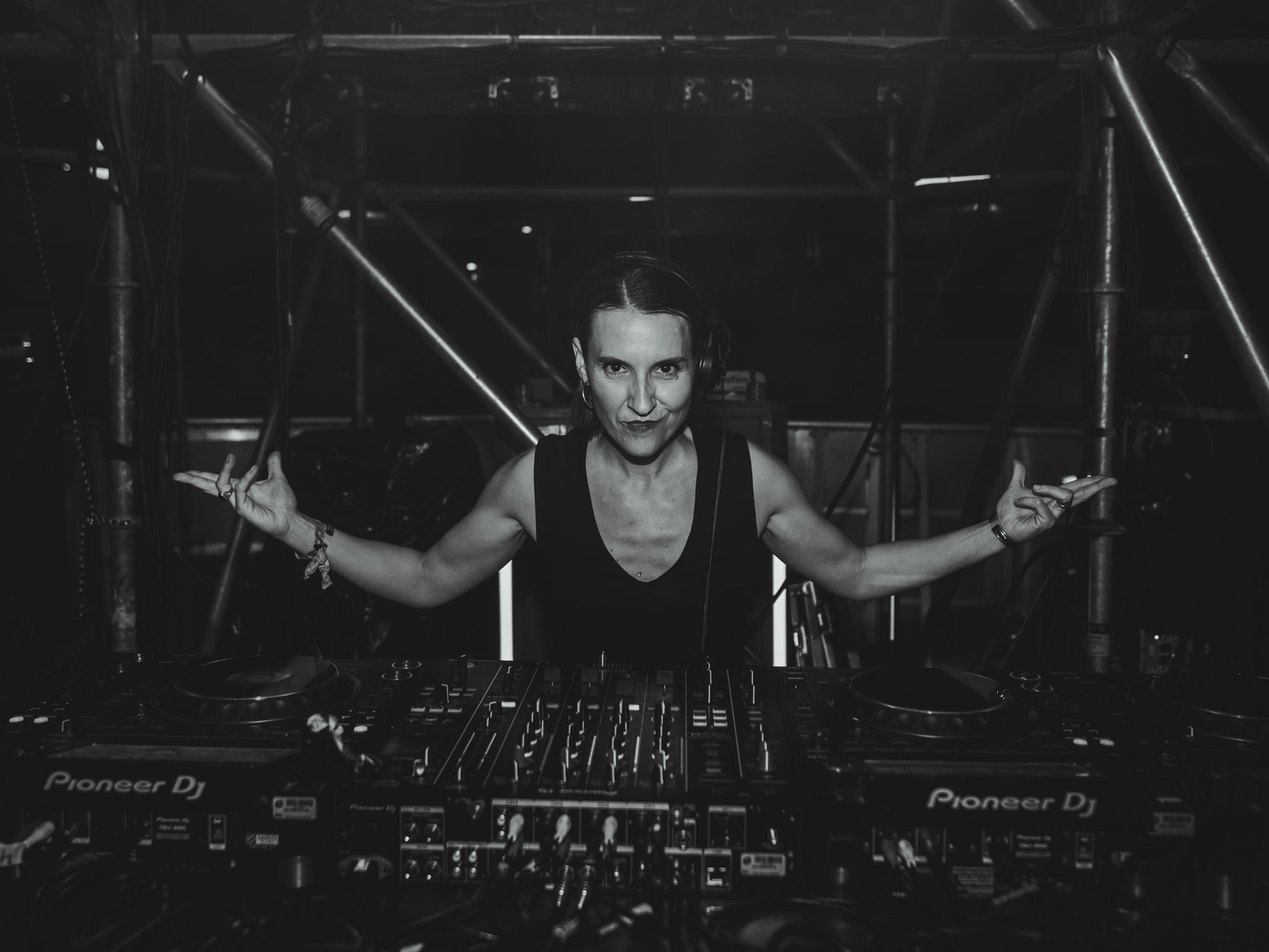
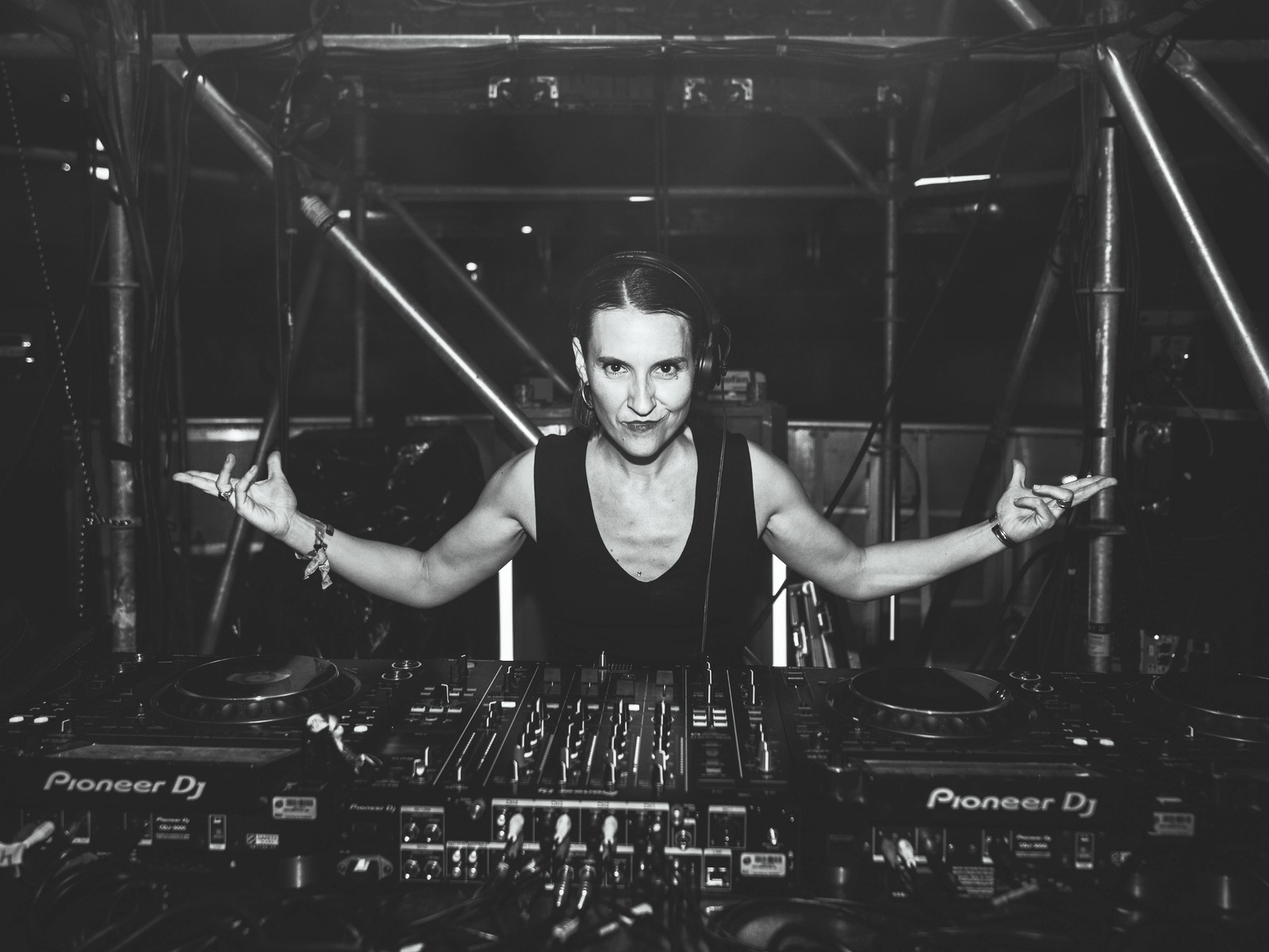
Mentora: foto más luminosa y borde acid

diff --git a/index.html b/index.html
@@ -22,7 +22,7 @@
 .press-kit-link:hover{color:#c8ff00;border-color:#c8ff00}
 .press-kit-link__mark{color:#c8ff00}
 @media (prefers-reduced-motion:reduce){.set-player__trigger,.press-kit-link{transition:none}}
-</style><meta name="theme-color" content="#080808"/><meta name="color-scheme" content="dark"/><title>BASSROOM DJs School | Escuela online de DJs</title><meta name="description" content="Escuela online de DJs de Mobox (Mónica Solís Ruiz), en Granada. Aprende a mezclar desde cero hasta nivel avanzado: clases en directo, revisión de tus mezclas y videoteca. Grupal online o VIP 1 a 1, presencial u online. Reserva una llamada."/><meta name="application-name" content="BASSROOM DJs School"/><meta name="author" content="Mobox (Mónica Solís Ruiz)"/><meta name="keywords" content="escuela de DJ,clases de DJ online,BASSROOM,Mobox,Mónica Solís Ruiz,Rekordbox,mezcla,Granada"/><meta name="creator" content="Mobox (Mónica Solís Ruiz)"/><meta name="robots" content="index, follow"/><link rel="canonical" href="https://bassroomdjschool.com"/><meta property="og:title" content="BASSROOM DJs School | Escuela online de DJs"/><meta property="og:description" content="Escuela online de DJs de Mobox (Mónica Solís Ruiz), en Granada. Aprende a mezclar desde cero hasta nivel avanzado: clases en directo, revisión de tus mezclas y videoteca. Grupal online o VIP 1 a 1, presencial u online. Reserva una llamada."/><meta property="og:url" content="https://bassroomdjschool.com"/><meta property="og:site_name" content="BASSROOM DJs School"/><meta property="og:locale" content="es_ES"/><meta property="og:image" content="https://bassroomdjschool.com/og.png"/><meta property="og:image:type" content="image/png"/><meta property="og:image:width" content="1200"/><meta property="og:image:height" content="630"/><meta property="og:image:alt" content="BASSROOM DJs School, escuela online de DJs"/><meta property="og:type" content="website"/><meta name="twitter:card" content="summary_large_image"/><meta name="twitter:title" content="BASSROOM DJs School | Escuela online de DJs"/><meta name="twitter:description" content="Escuela online de DJs de Mobox (Mónica Solís Ruiz), en Granada. Aprende a mezclar desde cero hasta nivel avanzado: clases en directo, revisión de tus mezclas y videoteca. Grupal online o VIP 1 a 1, presencial u online. Reserva una llamada."/><meta name="twitter:image" content="https://bassroomdjschool.com/og.png"/><meta name="twitter:image:alt" content="BASSROOM DJs School, escuela online de DJs"/><meta name="twitter:image:type" content="image/png"/><meta name="twitter:image:width" content="1200"/><meta name="twitter:image:height" content="630"/><link rel="icon" href="/icon.png" type="image/png" sizes="32x32"/></head><body class="flex min-h-full flex-col overflow-x-clip bg-void font-sans text-paper antialiased"><a class="skip-link" href="#contenido">Saltar al contenido</a><script type="application/ld+json">{"@context":"https://schema.org","@type":"EducationalOrganization","name":"BASSROOM DJs School","url":"https://bassroomdjschool.com","email":"moboxdj@gmail.com","description":"Escuela online de DJs de Mobox (Mónica Solís Ruiz), en Granada. Aprende a mezclar desde cero hasta nivel avanzado: clases en directo, revisión de tus mezclas y videoteca. Grupal online o VIP 1 a 1, presencial u online. Reserva una llamada.","inLanguage":"es","address":{"@type":"PostalAddress","addressLocality":"Granada","addressCountry":"ES"},"founder":{"@type":"Person","name":"Mónica Solís Ruiz","alternateName":"Mobox","jobTitle":"DJ y docente","homeLocation":"Granada, España","sameAs":["https://www.instagram.com/moboxdj/","https://soundcloud.com/moboxdj","https://www.mixcloud.com/Moboxdj/","https://www.youtube.com/@moboxdj","https://linktr.ee/mobox"]},"hasOfferCatalog":{"@type":"OfferCatalog","name":"Formatos de BASSROOM","itemListElement":[{"@type":"Offer","name":"Membresía grupal","price":"65","priceCurrency":"EUR","description":"Clases en grupo reducido, online, con membresía mensual. 65 € al mes.","url":"https://bassroomdjschool.com/reservar"},{"@type":"Offer","name":"VIP quincenal","price":"130","priceCurrency":"EUR","description":"Una sesión 1 a 1 cada dos semanas. 130 € al mes.","url":"https://bassroomdjschool.com/reservar"},{"@type":"Offer","name":"VIP mensual","price":"230","priceCurrency":"EUR","description":"Una sesión 1 a 1 cada semana. 230 € al mes.","url":"https://bassroomdjschool.com/reservar"}]}}</script><header class="sticky top-0 z-40 border-b border-line bg-void/95 backdrop-blur-md"><div class="h-0.5 bg-acid" aria-hidden="true"></div><div class="mx-auto flex h-16 max-w-6xl items-center gap-3 px-4 sm:px-6"><a class="mr-auto rounded-none focus-visible:outline-2 focus-visible:outline-offset-4 focus-visible:outline-acid" href="/"><span class="inline-flex items-center gap-2.5"><span aria-hidden="true" class="grid size-9 shrink-0 place-items-center bg-acid font-display text-[1.35rem] leading-none tracking-wide text-void">BR</span><span class="flex min-w-0 flex-col"><span class="font-display text-[1.65rem] leading-none tracking-[0.12em] text-paper">BASSROOM</span><span class="mt-1 font-mono text-[9px] uppercase tracking-[0.28em] text-acid">DJs School</span></span></span><span class="sr-only">, inicio</span></a><nav aria-label="Secciones" class="hidden items-center gap-5 lg:flex"><a class="font-mono text-[11px] uppercase tracking-[0.14em] text-mix hover:text-paper" href="/#escuela">Escuela</a><a class="font-mono text-[11px] uppercase tracking-[0.14em] text-mix hover:text-paper" href="/#temario">Temario</a><a class="font-mono text-[11px] uppercase tracking-[0.14em] text-mix hover:text-paper" href="/#mentora">Mentora</a><a class="font-mono text-[11px] uppercase tracking-[0.14em] text-mix hover:text-paper" href="/#formatos">Formatos</a><a class="font-mono text-[11px] uppercase tracking-[0.14em] text-mix hover:text-paper" href="/#faq">FAQ</a></nav><a data-slot="button" class="inline-flex items-center justify-center gap-2 whitespace-nowrap font-mono text-[11px] font-bold uppercase tracking-[0.16em] transition-colors focus-visible:outline-2 focus-visible:outline-offset-2 disabled:pointer-events-none disabled:opacity-50 bg-acid text-void hover:bg-paper focus-visible:outline-paper h-10 px-4 shrink-0" href="https://calendar.app.google/jAWiXbuMA2pQXPar5"><span class="sm:hidden">Reservar</span><span class="hidden sm:inline">Reserva una llamada</span></a></div></header><main id="contenido" class="flex-1"><script type="application/ld+json">{"@context":"https://schema.org","@type":"FAQPage","mainEntity":[{"@type":"Question","name":"¿Qué es BASSROOM?","acceptedAnswer":{"@type":"Answer","text":"Es la escuela online para futuros DJs. Nace después de años formando alumnos y alumnas, para llegar a más personas apasionadas por el mundo DJ y la música. El objetivo es acompañarte en el proceso de convertirte en DJ."}},{"@type":"Question","name":"¿Para quién es?","acceptedAnswer":{"@type":"Answer","text":"Desde cero hasta nivel avanzado. Empiezas sin experiencia, con la cabina y el equipo, avanzas por niveles hasta tu primera sesión y terminas con un nivel avanzado y un proyecto final: grabar una sesión de 60 minutos."}},{"@type":"Question","name":"¿Cómo son las clases del grupo?","acceptedAnswer":{"@type":"Answer","text":"La membresía grupal es online, en grupo reducido: un día a la semana, hora y media. En directo puedes preguntar, pausar y seguir la guía paso a paso. En cada bloque presentas ejercicios, mezclas y selecciones, y tu mentora los revisa en directo (ecualización, mezcla y estructura). Hay un chat grupal."}},{"@type":"Question","name":"¿Qué pasa si no puedo asistir en directo?","acceptedAnswer":{"@type":"Answer","text":"La clase queda grabada y subida a la web, y puedes verla cuando quieras. El acceso a las grabaciones es permanente: la videoteca no tiene límite."}},{"@type":"Question","name":"¿Qué se trabaja en el temario?","acceptedAnswer":{"@type":"Answer","text":"Ocho temas: la cabina y el equipo, pulso y BPM, descarga de música, Rekordbox, la primera mezcla, cómo preparar una sesión y leer la pista, la grabación de tu primera sesión y un nivel avanzado con stems, samplers, trucos, retos en directo y capas de 3 y 4 pistas. El proyecto final es grabar una sesión de 60 minutos."}},{"@type":"Question","name":"¿Qué formatos hay y cuánto cuestan?","acceptedAnswer":{"@type":"Answer","text":"Membresía grupal: 65 € al mes, con pago por Stripe. VIP quincenal: 130 € al mes, una sesión 1 a 1 cada dos semanas. VIP mensual: 230 € al mes, una sesión 1 a 1 cada semana. El 1 a 1 puede ser presencial u online, con plazas muy limitadas."}},{"@type":"Question","name":"¿Qué incluye el VIP además de la sesión 1 a 1?","acceptedAnswer":{"@type":"Answer","text":"WhatsApp para dudas puntuales, con respuesta en 24-48 horas; una playlist curada según tu estilo; grabación de tus sesiones con tu mentora; ayuda con el press kit; recomendación directa para actuaciones; y acceso gratuito e ilimitado a las clases grupales. Es el mismo paquete en los dos planes VIP."}},{"@type":"Question","name":"¿Quién da las clases?","acceptedAnswer":{"@type":"Answer","text":"Mobox (Mónica), DJ profesional, percusionista en vivo y docente, con más de una década de experiencia continua en la música electrónica y más de 14 años en salas y festivales."}},{"@type":"Question","name":"¿Con qué software se trabaja?","acceptedAnswer":{"@type":"Answer","text":"Con Rekordbox. El tema 04 cubre la interfaz, la configuración y la importación y exportación musical."}}]}</script><section class="border-b border-line"><div class="mx-auto grid max-w-6xl items-center gap-8 px-4 py-8 sm:px-6 sm:py-10 lg:grid-cols-[minmax(0,1.15fr)_minmax(280px,0.85fr)] lg:gap-12 lg:py-12"><div><p class="font-mono text-[11px] uppercase tracking-[0.22em] text-acid">La escuela online de DJs</p><h1 class="mt-3 font-display text-[3.15rem] leading-[0.84] tracking-[0.04em] text-paper sm:text-7xl lg:text-8xl">BASSROOM<span class="mt-2 block font-mono text-[11px] font-normal tracking-[0.28em] text-acid sm:text-xs">DJs School</span></h1><p class="mt-5 max-w-xl text-lg font-light leading-snug text-paper sm:text-xl">La escuela para futuros DJs. Aprende a mezclar desde cero hasta nivel avanzado.</p><p class="mt-3 max-w-xl text-base leading-relaxed text-mix">Un recorrido por niveles: empiezas desde cero, sin experiencia previa, y avanzas paso a paso hasta técnicas avanzadas de mezcla. Clases en directo, revisión de tus mezclas y videoteca con todas las grabaciones. Grupal online o VIP 1 a 1.</p><dl class="mt-5 grid gap-3 sm:grid-cols-3"><div><dt class="font-mono text-[10px] uppercase tracking-[0.16em] text-acid">Para quién</dt><dd class="mt-1 text-sm leading-snug text-paper">Desde cero hasta nivel avanzado.</dd></div><div><dt class="font-mono text-[10px] uppercase tracking-[0.16em] text-acid">Qué incluye</dt><dd class="mt-1 text-sm leading-snug text-paper">Clases en vivo, auditoría de mezclas y grabaciones.</dd></div><div><dt class="font-mono text-[10px] uppercase tracking-[0.16em] text-acid">Formatos</dt><dd class="mt-1 text-sm leading-snug text-paper">Grupo online o VIP 1 a 1, presencial u online.</dd></div></dl><div class="mt-6 flex flex-col gap-3 sm:flex-row sm:items-center"><a data-slot="button" class="inline-flex items-center justify-center gap-2 whitespace-nowrap font-mono text-[11px] font-bold uppercase tracking-[0.16em] transition-colors focus-visible:outline-2 focus-visible:outline-offset-2 disabled:pointer-events-none disabled:opacity-50 bg-acid text-void hover:bg-paper focus-visible:outline-paper h-12 px-5 w-full sm:w-auto" href="https://calendar.app.google/jAWiXbuMA2pQXPar5">Reserva una llamada</a><a class="inline-flex h-12 items-center justify-center px-2 font-mono text-[11px] font-bold uppercase tracking-[0.16em] text-paper underline decoration-line underline-offset-4 hover:text-acid" href="/#formatos">Ver formatos</a></div></div><figure><div class="relative aspect-square overflow-hidden bg-booth"><img alt="Boceto de una mesa de mezclas." decoding="async" data-nimg="fill" class="object-cover object-center" style="position:absolute;height:100%;width:100%;left:0;top:0;right:0;bottom:0;color:transparent" sizes="(min-width: 1024px) 40vw, 100vw" src="/images/hero-mesa-mezclas-base.jpg"/><div class="hero-faders" aria-hidden="true"><span class="hero-fader hero-fader--ch2"></span><span class="hero-fader hero-fader--ch3 hero-fader--acid"></span><span class="hero-fader hero-fader--ch4"></span><span class="hero-fader hero-fader--ch5"></span></div></div><figcaption class="mt-2 font-mono text-[10px] uppercase tracking-[0.16em] text-mix">En la cabina</figcaption></figure></div></section><section id="escuela" aria-labelledby="escuela-titulo" class="scroll-mt-20 border-b border-line"><div class="mx-auto max-w-6xl px-4 py-16 sm:px-6 sm:py-20"><p class="font-mono text-[11px] uppercase tracking-[0.22em] text-acid">01</p><h2 id="escuela-titulo" class="mt-2 max-w-3xl font-display text-5xl tracking-wide text-paper sm:text-6xl">Qué es y cómo funciona</h2><div class="mt-6 max-w-3xl space-y-4 text-lg font-light leading-relaxed text-paper/95"><p>BASSROOM nace después de años formando alumnos y alumnas, con la intención de seguir ampliando y llegando cada vez a más personas apasionadas por el mundo DJ y la música. El objetivo es acompañarte en este proceso de convertirte en DJ.</p><p>Y qué mejor forma que en una escuela online grupal o en formato VIP 1 a 1. Hay opción de clases 1 a 1, presencial y online, con plazas muy limitadas: la membresía VIP, con ventajas y un acompañamiento exclusivo.</p><p>En BASSROOM hemos diseñado una experiencia digital inmersiva para que sientas que estás dentro de una cabina profesional desde tu propia casa.</p></div><ol class="mt-10 grid gap-px bg-line sm:grid-cols-3"><li class="bg-booth p-6"><p class="font-mono text-[11px] tracking-[0.18em] text-acid">01</p><h3 class="mt-3 font-display text-2xl tracking-wide text-paper">Clases dinámicas con acompañamiento en vivo</h3><p class="mt-3 text-sm leading-relaxed text-mix">En las sesiones en directo puedes preguntar cualquier duda al instante, pausar para profundizar en un concepto y recibir guía paso a paso.</p></li><li class="bg-booth p-6"><p class="font-mono text-[11px] tracking-[0.18em] text-acid">02</p><h3 class="mt-3 font-display text-2xl tracking-wide text-paper">Presentación y auditoría de tus propios trabajos</h3><p class="mt-3 text-sm leading-relaxed text-mix">En cada bloque hay espacio para presentar tus ejercicios, mezclas y selecciones musicales. Tu mentora revisa tu trabajo en directo y corrige ecualización, mezcla y estructura.</p></li><li class="bg-booth p-6"><p class="font-mono text-[11px] tracking-[0.18em] text-acid">03</p><h3 class="mt-3 font-display text-2xl tracking-wide text-paper">Comunidad y videoteca ilimitada</h3><p class="mt-3 text-sm leading-relaxed text-mix">Todas las clases se graban. Si no puedes asistir a una sesión en directo o quieres repasar un truco técnico, tienes acceso permanente a las grabaciones.</p></li></ol></div></section><section id="temario" aria-labelledby="temario-titulo" class="scroll-mt-20 border-b border-line"><div class="mx-auto max-w-6xl px-4 py-16 sm:px-6 sm:py-20"><p class="font-mono text-[11px] uppercase tracking-[0.22em] text-acid">02 · Curso inicial de DJ y mezcla</p><h2 id="temario-titulo" class="mt-2 font-display text-5xl tracking-wide text-paper sm:text-6xl">Temario</h2><p class="mt-4 max-w-2xl text-base leading-relaxed text-mix">Ocho temas, de la cabina al nivel avanzado, y un proyecto final: grabar una sesión de 60 minutos.</p><ol class="mt-8 divide-y divide-line border-y border-line"><li class="grid gap-2 py-5 sm:grid-cols-[4.5rem_minmax(0,16rem)_1fr] sm:gap-6"><p class="font-mono text-sm tracking-[0.14em] text-acid">01</p><h3 class="font-display text-2xl tracking-wide text-paper">Conocimientos de nuestra cabina</h3><p class="text-sm leading-relaxed text-mix sm:pt-1">Aprenderás el entorno DJ, tipos de equipos, conexiones y tipos de cables, y qué equipo es mejor para ti.</p></li><li class="grid gap-2 py-5 sm:grid-cols-[4.5rem_minmax(0,16rem)_1fr] sm:gap-6"><p class="font-mono text-sm tracking-[0.14em] text-acid">02</p><h3 class="font-display text-2xl tracking-wide text-paper">Pulso, tempo y BPM de un track</h3><p class="text-sm leading-relaxed text-mix sm:pt-1">Cómo localizar y sentir el pulso de un tema. Qué es el BPM (beat, barras, frases). Estructura musical.</p></li><li class="grid gap-2 py-5 sm:grid-cols-[4.5rem_minmax(0,16rem)_1fr] sm:gap-6"><p class="font-mono text-sm tracking-[0.14em] text-acid">03</p><h3 class="font-display text-2xl tracking-wide text-paper">Descarga musical</h3><p class="text-sm leading-relaxed text-mix sm:pt-1">Diferentes tipos de archivos de audio, dónde y cómo descargar música de alta calidad.</p></li><li class="grid gap-2 py-5 sm:grid-cols-[4.5rem_minmax(0,16rem)_1fr] sm:gap-6"><p class="font-mono text-sm tracking-[0.14em] text-acid">04</p><h3 class="font-display text-2xl tracking-wide text-paper">Presentación del software Rekordbox</h3><p class="text-sm leading-relaxed text-mix sm:pt-1">Interfaz, configuración, importación y exportación musical.</p></li><li class="grid gap-2 py-5 sm:grid-cols-[4.5rem_minmax(0,16rem)_1fr] sm:gap-6"><p class="font-mono text-sm tracking-[0.14em] text-acid">05</p><h3 class="font-display text-2xl tracking-wide text-paper">Primera mezcla</h3><p class="text-sm leading-relaxed text-mix sm:pt-1">Estudio de los tracks y su estructura. Sincronización de BPM (beat matching). Utilización de EQ, técnica y tipos de mezclas. Todo trabajando el oído como base fundamental.</p></li><li class="grid gap-2 py-5 sm:grid-cols-[4.5rem_minmax(0,16rem)_1fr] sm:gap-6"><p class="font-mono text-sm tracking-[0.14em] text-acid">06</p><h3 class="font-display text-2xl tracking-wide text-paper">Preparar una sesión y psicología de pista</h3><p class="text-sm leading-relaxed text-mix sm:pt-1">Cómo crear una sesión coherente y establecida según el lugar, la pista y el público, a nivel técnico, musical y energético. Te enseñaré cómo leer la pista para conectar con el público.</p></li><li class="grid gap-2 py-5 sm:grid-cols-[4.5rem_minmax(0,16rem)_1fr] sm:gap-6"><p class="font-mono text-sm tracking-[0.14em] text-acid">07</p><h3 class="font-display text-2xl tracking-wide text-paper">Grabación de tu primera sesión</h3><p class="text-sm leading-relaxed text-mix sm:pt-1">Crearás tu primera sesión, guiado/a por Mobox, practicando todo lo aprendido.</p></li><li class="grid gap-2 py-5 sm:grid-cols-[4.5rem_minmax(0,16rem)_1fr] sm:gap-6"><p class="font-mono text-sm tracking-[0.14em] text-acid">08</p><h3 class="font-display text-2xl tracking-wide text-paper">Nivel avanzado</h3><p class="text-sm leading-relaxed text-mix sm:pt-1">Pasaremos a un nivel más avanzado trabajando con stems, samplers, trucos de mezcla, retos en directo y trabajo por capas de 3 y 4 pistas.</p></li><li class="grid gap-2 bg-booth px-4 py-5 sm:grid-cols-[4.5rem_minmax(0,16rem)_1fr] sm:gap-6 sm:px-0"><p class="font-mono text-sm tracking-[0.14em] text-acid">FIN</p><h3 class="font-display text-2xl tracking-wide text-paper">Proyecto final</h3><p class="text-sm leading-relaxed text-mix sm:pt-1">Grabar una sesión de 60 minutos.</p></li></ol></div></section><section id="mentora" aria-labelledby="mentora-titulo" class="scroll-mt-20 border-b border-line"><div class="mx-auto max-w-6xl px-4 py-16 sm:px-6 sm:py-20"><div class="mentora-grid grid items-start gap-10"><figure><div class="mentora-foto relative overflow-hidden bg-booth"><img alt="Mobox en la cabina de un festival, con los brazos abiertos tras la mesa Pioneer DJ." loading="lazy" decoding="async" width="1600" height="1200" class="object-cover" style="position:absolute;height:100%;width:100%;left:0;top:0;right:0;bottom:0;color:transparent" sizes="(min-width: 1024px) 48vw, 100vw" src="/images/mobox-cabina.jpg"/></div><figcaption class="mt-2 font-mono text-[10px] uppercase tracking-[0.16em] text-mix">Mónica Solís Ruiz · Mobox</figcaption></figure><div><p class="font-mono text-[11px] uppercase tracking-[0.22em] text-acid">03</p><h2 id="mentora-titulo" class="mt-2 font-display text-5xl tracking-wide text-paper sm:text-6xl">Conoce a tu mentora</h2><p class="mt-5 text-lg font-light leading-relaxed text-paper">Detrás de BASSROOM DJs School está Mobox (Mónica Solís Ruiz), DJ profesional, percusionista en vivo y docente con más de una década de experiencia continua en la industria de la música electrónica.</p><p class="mt-4 text-base leading-relaxed text-mix">Experiencia de más de 14 años en salas de referencia. Ocho de ellos como residente en Sala Vogue, Granada. Ha tocado en Mad Cool Festival 2023, Granada Sound 2024 (escenario El Búnker), Cooltural Fest —incluido el set de 2025— y En Órbita Fest. Un recorrido constante, viviendo el club semana a semana. Facilitadora y co-creadora de Ecstatic Dance Granada desde 2021.</p><p class="mt-4 text-base leading-relaxed text-mix">Especialista en subgéneros de club como house, techno, melodic house, acid house y world music. Trabaja un formato híbrido que integra percusión acústica en vivo. Nacida en Granada, en el Albaicín. En 2025 publicó su primer single, <a href="https://open.spotify.com/track/4EcnIBrdG2cHwZZdcrkAJ8" class="text-paper underline decoration-line underline-offset-4 hover:text-acid" target="_blank" rel="noopener noreferrer">The Silence<span class="sr-only"> (se abre en una pestaña nueva)</span></a>.</p><figure class="mt-8 border-l-4 border-acid pl-5"><blockquote class="text-lg font-light leading-relaxed text-paper">«BASSROOM no es solo una escuela, es una comunidad donde crecemos juntos y hacemos de la música nuestro hilo conductor. Te enseñaré lo que funciona en la pista de baile real, cómo resolver imprevistos en cabina y cómo construir una identidad artística propia que te diferencie del resto.»</blockquote><figcaption class="mt-3 font-mono text-[11px] uppercase tracking-[0.16em] text-acid">Mobox</figcaption></figure><p class="mt-6 text-sm leading-relaxed text-mix">«Ocho años como residente en la sala Vogue fue el mejor de los aprendizajes.» — Mobox, en Ideal (2023).</p></div></div><figure class="mt-12" id="sesiones">
+</style><meta name="theme-color" content="#080808"/><meta name="color-scheme" content="dark"/><title>BASSROOM DJs School | Escuela online de DJs</title><meta name="description" content="Escuela online de DJs de Mobox (Mónica Solís Ruiz), en Granada. Aprende a mezclar desde cero hasta nivel avanzado: clases en directo, revisión de tus mezclas y videoteca. Grupal online o VIP 1 a 1, presencial u online. Reserva una llamada."/><meta name="application-name" content="BASSROOM DJs School"/><meta name="author" content="Mobox (Mónica Solís Ruiz)"/><meta name="keywords" content="escuela de DJ,clases de DJ online,BASSROOM,Mobox,Mónica Solís Ruiz,Rekordbox,mezcla,Granada"/><meta name="creator" content="Mobox (Mónica Solís Ruiz)"/><meta name="robots" content="index, follow"/><link rel="canonical" href="https://bassroomdjschool.com"/><meta property="og:title" content="BASSROOM DJs School | Escuela online de DJs"/><meta property="og:description" content="Escuela online de DJs de Mobox (Mónica Solís Ruiz), en Granada. Aprende a mezclar desde cero hasta nivel avanzado: clases en directo, revisión de tus mezclas y videoteca. Grupal online o VIP 1 a 1, presencial u online. Reserva una llamada."/><meta property="og:url" content="https://bassroomdjschool.com"/><meta property="og:site_name" content="BASSROOM DJs School"/><meta property="og:locale" content="es_ES"/><meta property="og:image" content="https://bassroomdjschool.com/og.png"/><meta property="og:image:type" content="image/png"/><meta property="og:image:width" content="1200"/><meta property="og:image:height" content="630"/><meta property="og:image:alt" content="BASSROOM DJs School, escuela online de DJs"/><meta property="og:type" content="website"/><meta name="twitter:card" content="summary_large_image"/><meta name="twitter:title" content="BASSROOM DJs School | Escuela online de DJs"/><meta name="twitter:description" content="Escuela online de DJs de Mobox (Mónica Solís Ruiz), en Granada. Aprende a mezclar desde cero hasta nivel avanzado: clases en directo, revisión de tus mezclas y videoteca. Grupal online o VIP 1 a 1, presencial u online. Reserva una llamada."/><meta name="twitter:image" content="https://bassroomdjschool.com/og.png"/><meta name="twitter:image:alt" content="BASSROOM DJs School, escuela online de DJs"/><meta name="twitter:image:type" content="image/png"/><meta name="twitter:image:width" content="1200"/><meta name="twitter:image:height" content="630"/><link rel="icon" href="/icon.png" type="image/png" sizes="32x32"/></head><body class="flex min-h-full flex-col overflow-x-clip bg-void font-sans text-paper antialiased"><a class="skip-link" href="#contenido">Saltar al contenido</a><script type="application/ld+json">{"@context":"https://schema.org","@type":"EducationalOrganization","name":"BASSROOM DJs School","url":"https://bassroomdjschool.com","email":"moboxdj@gmail.com","description":"Escuela online de DJs de Mobox (Mónica Solís Ruiz), en Granada. Aprende a mezclar desde cero hasta nivel avanzado: clases en directo, revisión de tus mezclas y videoteca. Grupal online o VIP 1 a 1, presencial u online. Reserva una llamada.","inLanguage":"es","address":{"@type":"PostalAddress","addressLocality":"Granada","addressCountry":"ES"},"founder":{"@type":"Person","name":"Mónica Solís Ruiz","alternateName":"Mobox","jobTitle":"DJ y docente","homeLocation":"Granada, España","sameAs":["https://www.instagram.com/moboxdj/","https://soundcloud.com/moboxdj","https://www.mixcloud.com/Moboxdj/","https://www.youtube.com/@moboxdj","https://linktr.ee/mobox"]},"hasOfferCatalog":{"@type":"OfferCatalog","name":"Formatos de BASSROOM","itemListElement":[{"@type":"Offer","name":"Membresía grupal","price":"65","priceCurrency":"EUR","description":"Clases en grupo reducido, online, con membresía mensual. 65 € al mes.","url":"https://bassroomdjschool.com/reservar"},{"@type":"Offer","name":"VIP quincenal","price":"130","priceCurrency":"EUR","description":"Una sesión 1 a 1 cada dos semanas. 130 € al mes.","url":"https://bassroomdjschool.com/reservar"},{"@type":"Offer","name":"VIP mensual","price":"230","priceCurrency":"EUR","description":"Una sesión 1 a 1 cada semana. 230 € al mes.","url":"https://bassroomdjschool.com/reservar"}]}}</script><header class="sticky top-0 z-40 border-b border-line bg-void/95 backdrop-blur-md"><div class="h-0.5 bg-acid" aria-hidden="true"></div><div class="mx-auto flex h-16 max-w-6xl items-center gap-3 px-4 sm:px-6"><a class="mr-auto rounded-none focus-visible:outline-2 focus-visible:outline-offset-4 focus-visible:outline-acid" href="/"><span class="inline-flex items-center gap-2.5"><span aria-hidden="true" class="grid size-9 shrink-0 place-items-center bg-acid font-display text-[1.35rem] leading-none tracking-wide text-void">BR</span><span class="flex min-w-0 flex-col"><span class="font-display text-[1.65rem] leading-none tracking-[0.12em] text-paper">BASSROOM</span><span class="mt-1 font-mono text-[9px] uppercase tracking-[0.28em] text-acid">DJs School</span></span></span><span class="sr-only">, inicio</span></a><nav aria-label="Secciones" class="hidden items-center gap-5 lg:flex"><a class="font-mono text-[11px] uppercase tracking-[0.14em] text-mix hover:text-paper" href="/#escuela">Escuela</a><a class="font-mono text-[11px] uppercase tracking-[0.14em] text-mix hover:text-paper" href="/#temario">Temario</a><a class="font-mono text-[11px] uppercase tracking-[0.14em] text-mix hover:text-paper" href="/#mentora">Mentora</a><a class="font-mono text-[11px] uppercase tracking-[0.14em] text-mix hover:text-paper" href="/#formatos">Formatos</a><a class="font-mono text-[11px] uppercase tracking-[0.14em] text-mix hover:text-paper" href="/#faq">FAQ</a></nav><a data-slot="button" class="inline-flex items-center justify-center gap-2 whitespace-nowrap font-mono text-[11px] font-bold uppercase tracking-[0.16em] transition-colors focus-visible:outline-2 focus-visible:outline-offset-2 disabled:pointer-events-none disabled:opacity-50 bg-acid text-void hover:bg-paper focus-visible:outline-paper h-10 px-4 shrink-0" href="https://calendar.app.google/jAWiXbuMA2pQXPar5"><span class="sm:hidden">Reservar</span><span class="hidden sm:inline">Reserva una llamada</span></a></div></header><main id="contenido" class="flex-1"><script type="application/ld+json">{"@context":"https://schema.org","@type":"FAQPage","mainEntity":[{"@type":"Question","name":"¿Qué es BASSROOM?","acceptedAnswer":{"@type":"Answer","text":"Es la escuela online para futuros DJs. Nace después de años formando alumnos y alumnas, para llegar a más personas apasionadas por el mundo DJ y la música. El objetivo es acompañarte en el proceso de convertirte en DJ."}},{"@type":"Question","name":"¿Para quién es?","acceptedAnswer":{"@type":"Answer","text":"Desde cero hasta nivel avanzado. Empiezas sin experiencia, con la cabina y el equipo, avanzas por niveles hasta tu primera sesión y terminas con un nivel avanzado y un proyecto final: grabar una sesión de 60 minutos."}},{"@type":"Question","name":"¿Cómo son las clases del grupo?","acceptedAnswer":{"@type":"Answer","text":"La membresía grupal es online, en grupo reducido: un día a la semana, hora y media. En directo puedes preguntar, pausar y seguir la guía paso a paso. En cada bloque presentas ejercicios, mezclas y selecciones, y tu mentora los revisa en directo (ecualización, mezcla y estructura). Hay un chat grupal."}},{"@type":"Question","name":"¿Qué pasa si no puedo asistir en directo?","acceptedAnswer":{"@type":"Answer","text":"La clase queda grabada y subida a la web, y puedes verla cuando quieras. El acceso a las grabaciones es permanente: la videoteca no tiene límite."}},{"@type":"Question","name":"¿Qué se trabaja en el temario?","acceptedAnswer":{"@type":"Answer","text":"Ocho temas: la cabina y el equipo, pulso y BPM, descarga de música, Rekordbox, la primera mezcla, cómo preparar una sesión y leer la pista, la grabación de tu primera sesión y un nivel avanzado con stems, samplers, trucos, retos en directo y capas de 3 y 4 pistas. El proyecto final es grabar una sesión de 60 minutos."}},{"@type":"Question","name":"¿Qué formatos hay y cuánto cuestan?","acceptedAnswer":{"@type":"Answer","text":"Membresía grupal: 65 € al mes, con pago por Stripe. VIP quincenal: 130 € al mes, una sesión 1 a 1 cada dos semanas. VIP mensual: 230 € al mes, una sesión 1 a 1 cada semana. El 1 a 1 puede ser presencial u online, con plazas muy limitadas."}},{"@type":"Question","name":"¿Qué incluye el VIP además de la sesión 1 a 1?","acceptedAnswer":{"@type":"Answer","text":"WhatsApp para dudas puntuales, con respuesta en 24-48 horas; una playlist curada según tu estilo; grabación de tus sesiones con tu mentora; ayuda con el press kit; recomendación directa para actuaciones; y acceso gratuito e ilimitado a las clases grupales. Es el mismo paquete en los dos planes VIP."}},{"@type":"Question","name":"¿Quién da las clases?","acceptedAnswer":{"@type":"Answer","text":"Mobox (Mónica), DJ profesional, percusionista en vivo y docente, con más de una década de experiencia continua en la música electrónica y más de 14 años en salas y festivales."}},{"@type":"Question","name":"¿Con qué software se trabaja?","acceptedAnswer":{"@type":"Answer","text":"Con Rekordbox. El tema 04 cubre la interfaz, la configuración y la importación y exportación musical."}}]}</script><section class="border-b border-line"><div class="mx-auto grid max-w-6xl items-center gap-8 px-4 py-8 sm:px-6 sm:py-10 lg:grid-cols-[minmax(0,1.15fr)_minmax(280px,0.85fr)] lg:gap-12 lg:py-12"><div><p class="font-mono text-[11px] uppercase tracking-[0.22em] text-acid">La escuela online de DJs</p><h1 class="mt-3 font-display text-[3.15rem] leading-[0.84] tracking-[0.04em] text-paper sm:text-7xl lg:text-8xl">BASSROOM<span class="mt-2 block font-mono text-[11px] font-normal tracking-[0.28em] text-acid sm:text-xs">DJs School</span></h1><p class="mt-5 max-w-xl text-lg font-light leading-snug text-paper sm:text-xl">La escuela para futuros DJs. Aprende a mezclar desde cero hasta nivel avanzado.</p><p class="mt-3 max-w-xl text-base leading-relaxed text-mix">Un recorrido por niveles: empiezas desde cero, sin experiencia previa, y avanzas paso a paso hasta técnicas avanzadas de mezcla. Clases en directo, revisión de tus mezclas y videoteca con todas las grabaciones. Grupal online o VIP 1 a 1.</p><dl class="mt-5 grid gap-3 sm:grid-cols-3"><div><dt class="font-mono text-[10px] uppercase tracking-[0.16em] text-acid">Para quién</dt><dd class="mt-1 text-sm leading-snug text-paper">Desde cero hasta nivel avanzado.</dd></div><div><dt class="font-mono text-[10px] uppercase tracking-[0.16em] text-acid">Qué incluye</dt><dd class="mt-1 text-sm leading-snug text-paper">Clases en vivo, auditoría de mezclas y grabaciones.</dd></div><div><dt class="font-mono text-[10px] uppercase tracking-[0.16em] text-acid">Formatos</dt><dd class="mt-1 text-sm leading-snug text-paper">Grupo online o VIP 1 a 1, presencial u online.</dd></div></dl><div class="mt-6 flex flex-col gap-3 sm:flex-row sm:items-center"><a data-slot="button" class="inline-flex items-center justify-center gap-2 whitespace-nowrap font-mono text-[11px] font-bold uppercase tracking-[0.16em] transition-colors focus-visible:outline-2 focus-visible:outline-offset-2 disabled:pointer-events-none disabled:opacity-50 bg-acid text-void hover:bg-paper focus-visible:outline-paper h-12 px-5 w-full sm:w-auto" href="https://calendar.app.google/jAWiXbuMA2pQXPar5">Reserva una llamada</a><a class="inline-flex h-12 items-center justify-center px-2 font-mono text-[11px] font-bold uppercase tracking-[0.16em] text-paper underline decoration-line underline-offset-4 hover:text-acid" href="/#formatos">Ver formatos</a></div></div><figure><div class="relative aspect-square overflow-hidden bg-booth"><img alt="Boceto de una mesa de mezclas." decoding="async" data-nimg="fill" class="object-cover object-center" style="position:absolute;height:100%;width:100%;left:0;top:0;right:0;bottom:0;color:transparent" sizes="(min-width: 1024px) 40vw, 100vw" src="/images/hero-mesa-mezclas-base.jpg"/><div class="hero-faders" aria-hidden="true"><span class="hero-fader hero-fader--ch2"></span><span class="hero-fader hero-fader--ch3 hero-fader--acid"></span><span class="hero-fader hero-fader--ch4"></span><span class="hero-fader hero-fader--ch5"></span></div></div><figcaption class="mt-2 font-mono text-[10px] uppercase tracking-[0.16em] text-mix">En la cabina</figcaption></figure></div></section><section id="escuela" aria-labelledby="escuela-titulo" class="scroll-mt-20 border-b border-line"><div class="mx-auto max-w-6xl px-4 py-16 sm:px-6 sm:py-20"><p class="font-mono text-[11px] uppercase tracking-[0.22em] text-acid">01</p><h2 id="escuela-titulo" class="mt-2 max-w-3xl font-display text-5xl tracking-wide text-paper sm:text-6xl">Qué es y cómo funciona</h2><div class="mt-6 max-w-3xl space-y-4 text-lg font-light leading-relaxed text-paper/95"><p>BASSROOM nace después de años formando alumnos y alumnas, con la intención de seguir ampliando y llegando cada vez a más personas apasionadas por el mundo DJ y la música. El objetivo es acompañarte en este proceso de convertirte en DJ.</p><p>Y qué mejor forma que en una escuela online grupal o en formato VIP 1 a 1. Hay opción de clases 1 a 1, presencial y online, con plazas muy limitadas: la membresía VIP, con ventajas y un acompañamiento exclusivo.</p><p>En BASSROOM hemos diseñado una experiencia digital inmersiva para que sientas que estás dentro de una cabina profesional desde tu propia casa.</p></div><ol class="mt-10 grid gap-px bg-line sm:grid-cols-3"><li class="bg-booth p-6"><p class="font-mono text-[11px] tracking-[0.18em] text-acid">01</p><h3 class="mt-3 font-display text-2xl tracking-wide text-paper">Clases dinámicas con acompañamiento en vivo</h3><p class="mt-3 text-sm leading-relaxed text-mix">En las sesiones en directo puedes preguntar cualquier duda al instante, pausar para profundizar en un concepto y recibir guía paso a paso.</p></li><li class="bg-booth p-6"><p class="font-mono text-[11px] tracking-[0.18em] text-acid">02</p><h3 class="mt-3 font-display text-2xl tracking-wide text-paper">Presentación y auditoría de tus propios trabajos</h3><p class="mt-3 text-sm leading-relaxed text-mix">En cada bloque hay espacio para presentar tus ejercicios, mezclas y selecciones musicales. Tu mentora revisa tu trabajo en directo y corrige ecualización, mezcla y estructura.</p></li><li class="bg-booth p-6"><p class="font-mono text-[11px] tracking-[0.18em] text-acid">03</p><h3 class="mt-3 font-display text-2xl tracking-wide text-paper">Comunidad y videoteca ilimitada</h3><p class="mt-3 text-sm leading-relaxed text-mix">Todas las clases se graban. Si no puedes asistir a una sesión en directo o quieres repasar un truco técnico, tienes acceso permanente a las grabaciones.</p></li></ol></div></section><section id="temario" aria-labelledby="temario-titulo" class="scroll-mt-20 border-b border-line"><div class="mx-auto max-w-6xl px-4 py-16 sm:px-6 sm:py-20"><p class="font-mono text-[11px] uppercase tracking-[0.22em] text-acid">02 · Curso inicial de DJ y mezcla</p><h2 id="temario-titulo" class="mt-2 font-display text-5xl tracking-wide text-paper sm:text-6xl">Temario</h2><p class="mt-4 max-w-2xl text-base leading-relaxed text-mix">Ocho temas, de la cabina al nivel avanzado, y un proyecto final: grabar una sesión de 60 minutos.</p><ol class="mt-8 divide-y divide-line border-y border-line"><li class="grid gap-2 py-5 sm:grid-cols-[4.5rem_minmax(0,16rem)_1fr] sm:gap-6"><p class="font-mono text-sm tracking-[0.14em] text-acid">01</p><h3 class="font-display text-2xl tracking-wide text-paper">Conocimientos de nuestra cabina</h3><p class="text-sm leading-relaxed text-mix sm:pt-1">Aprenderás el entorno DJ, tipos de equipos, conexiones y tipos de cables, y qué equipo es mejor para ti.</p></li><li class="grid gap-2 py-5 sm:grid-cols-[4.5rem_minmax(0,16rem)_1fr] sm:gap-6"><p class="font-mono text-sm tracking-[0.14em] text-acid">02</p><h3 class="font-display text-2xl tracking-wide text-paper">Pulso, tempo y BPM de un track</h3><p class="text-sm leading-relaxed text-mix sm:pt-1">Cómo localizar y sentir el pulso de un tema. Qué es el BPM (beat, barras, frases). Estructura musical.</p></li><li class="grid gap-2 py-5 sm:grid-cols-[4.5rem_minmax(0,16rem)_1fr] sm:gap-6"><p class="font-mono text-sm tracking-[0.14em] text-acid">03</p><h3 class="font-display text-2xl tracking-wide text-paper">Descarga musical</h3><p class="text-sm leading-relaxed text-mix sm:pt-1">Diferentes tipos de archivos de audio, dónde y cómo descargar música de alta calidad.</p></li><li class="grid gap-2 py-5 sm:grid-cols-[4.5rem_minmax(0,16rem)_1fr] sm:gap-6"><p class="font-mono text-sm tracking-[0.14em] text-acid">04</p><h3 class="font-display text-2xl tracking-wide text-paper">Presentación del software Rekordbox</h3><p class="text-sm leading-relaxed text-mix sm:pt-1">Interfaz, configuración, importación y exportación musical.</p></li><li class="grid gap-2 py-5 sm:grid-cols-[4.5rem_minmax(0,16rem)_1fr] sm:gap-6"><p class="font-mono text-sm tracking-[0.14em] text-acid">05</p><h3 class="font-display text-2xl tracking-wide text-paper">Primera mezcla</h3><p class="text-sm leading-relaxed text-mix sm:pt-1">Estudio de los tracks y su estructura. Sincronización de BPM (beat matching). Utilización de EQ, técnica y tipos de mezclas. Todo trabajando el oído como base fundamental.</p></li><li class="grid gap-2 py-5 sm:grid-cols-[4.5rem_minmax(0,16rem)_1fr] sm:gap-6"><p class="font-mono text-sm tracking-[0.14em] text-acid">06</p><h3 class="font-display text-2xl tracking-wide text-paper">Preparar una sesión y psicología de pista</h3><p class="text-sm leading-relaxed text-mix sm:pt-1">Cómo crear una sesión coherente y establecida según el lugar, la pista y el público, a nivel técnico, musical y energético. Te enseñaré cómo leer la pista para conectar con el público.</p></li><li class="grid gap-2 py-5 sm:grid-cols-[4.5rem_minmax(0,16rem)_1fr] sm:gap-6"><p class="font-mono text-sm tracking-[0.14em] text-acid">07</p><h3 class="font-display text-2xl tracking-wide text-paper">Grabación de tu primera sesión</h3><p class="text-sm leading-relaxed text-mix sm:pt-1">Crearás tu primera sesión, guiado/a por Mobox, practicando todo lo aprendido.</p></li><li class="grid gap-2 py-5 sm:grid-cols-[4.5rem_minmax(0,16rem)_1fr] sm:gap-6"><p class="font-mono text-sm tracking-[0.14em] text-acid">08</p><h3 class="font-display text-2xl tracking-wide text-paper">Nivel avanzado</h3><p class="text-sm leading-relaxed text-mix sm:pt-1">Pasaremos a un nivel más avanzado trabajando con stems, samplers, trucos de mezcla, retos en directo y trabajo por capas de 3 y 4 pistas.</p></li><li class="grid gap-2 bg-booth px-4 py-5 sm:grid-cols-[4.5rem_minmax(0,16rem)_1fr] sm:gap-6 sm:px-0"><p class="font-mono text-sm tracking-[0.14em] text-acid">FIN</p><h3 class="font-display text-2xl tracking-wide text-paper">Proyecto final</h3><p class="text-sm leading-relaxed text-mix sm:pt-1">Grabar una sesión de 60 minutos.</p></li></ol></div></section><section id="mentora" aria-labelledby="mentora-titulo" class="scroll-mt-20 border-b border-line"><div class="mx-auto max-w-6xl px-4 py-16 sm:px-6 sm:py-20"><div class="mentora-grid grid items-start gap-10"><figure><div class="mentora-foto relative overflow-hidden border border-acid bg-booth"><img alt="Mobox en la cabina de un festival, con los brazos abiertos tras la mesa Pioneer DJ." loading="lazy" decoding="async" width="1600" height="1200" class="object-cover" style="position:absolute;height:100%;width:100%;left:0;top:0;right:0;bottom:0;color:transparent" sizes="(min-width: 1024px) 48vw, 100vw" src="/images/mobox-cabina.jpg"/></div><figcaption class="mt-2 font-mono text-[10px] uppercase tracking-[0.16em] text-mix">Mónica Solís Ruiz · Mobox</figcaption></figure><div><p class="font-mono text-[11px] uppercase tracking-[0.22em] text-acid">03</p><h2 id="mentora-titulo" class="mt-2 font-display text-5xl tracking-wide text-paper sm:text-6xl">Conoce a tu mentora</h2><p class="mt-5 text-lg font-light leading-relaxed text-paper">Detrás de BASSROOM DJs School está Mobox (Mónica Solís Ruiz), DJ profesional, percusionista en vivo y docente con más de una década de experiencia continua en la industria de la música electrónica.</p><p class="mt-4 text-base leading-relaxed text-mix">Experiencia de más de 14 años en salas de referencia. Ocho de ellos como residente en Sala Vogue, Granada. Ha tocado en Mad Cool Festival 2023, Granada Sound 2024 (escenario El Búnker), Cooltural Fest —incluido el set de 2025— y En Órbita Fest. Un recorrido constante, viviendo el club semana a semana. Facilitadora y co-creadora de Ecstatic Dance Granada desde 2021.</p><p class="mt-4 text-base leading-relaxed text-mix">Especialista en subgéneros de club como house, techno, melodic house, acid house y world music. Trabaja un formato híbrido que integra percusión acústica en vivo. Nacida en Granada, en el Albaicín. En 2025 publicó su primer single, <a href="https://open.spotify.com/track/4EcnIBrdG2cHwZZdcrkAJ8" class="text-paper underline decoration-line underline-offset-4 hover:text-acid" target="_blank" rel="noopener noreferrer">The Silence<span class="sr-only"> (se abre en una pestaña nueva)</span></a>.</p><figure class="mt-8 border-l-4 border-acid pl-5"><blockquote class="text-lg font-light leading-relaxed text-paper">«BASSROOM no es solo una escuela, es una comunidad donde crecemos juntos y hacemos de la música nuestro hilo conductor. Te enseñaré lo que funciona en la pista de baile real, cómo resolver imprevistos en cabina y cómo construir una identidad artística propia que te diferencie del resto.»</blockquote><figcaption class="mt-3 font-mono text-[11px] uppercase tracking-[0.16em] text-acid">Mobox</figcaption></figure><p class="mt-6 text-sm leading-relaxed text-mix">«Ocho años como residente en la sala Vogue fue el mejor de los aprendizajes.» — Mobox, en Ideal (2023).</p></div></div><figure class="mt-12" id="sesiones">
 <div class="relative aspect-[2000/330] overflow-hidden bg-booth">
 <img alt="Mobox pinchando en Cooltural Fest 2025, detrás de los platos, con una pantalla LED al fondo." loading="lazy" decoding="async" data-nimg="fill" class="object-cover object-center" style="position:absolute;height:100%;width:100%;left:0;top:0;right:0;bottom:0;color:transparent" sizes="(min-width: 1152px) 1152px, 100vw" src="/images/mobox-cooltural.jpg"/>
 </div>
